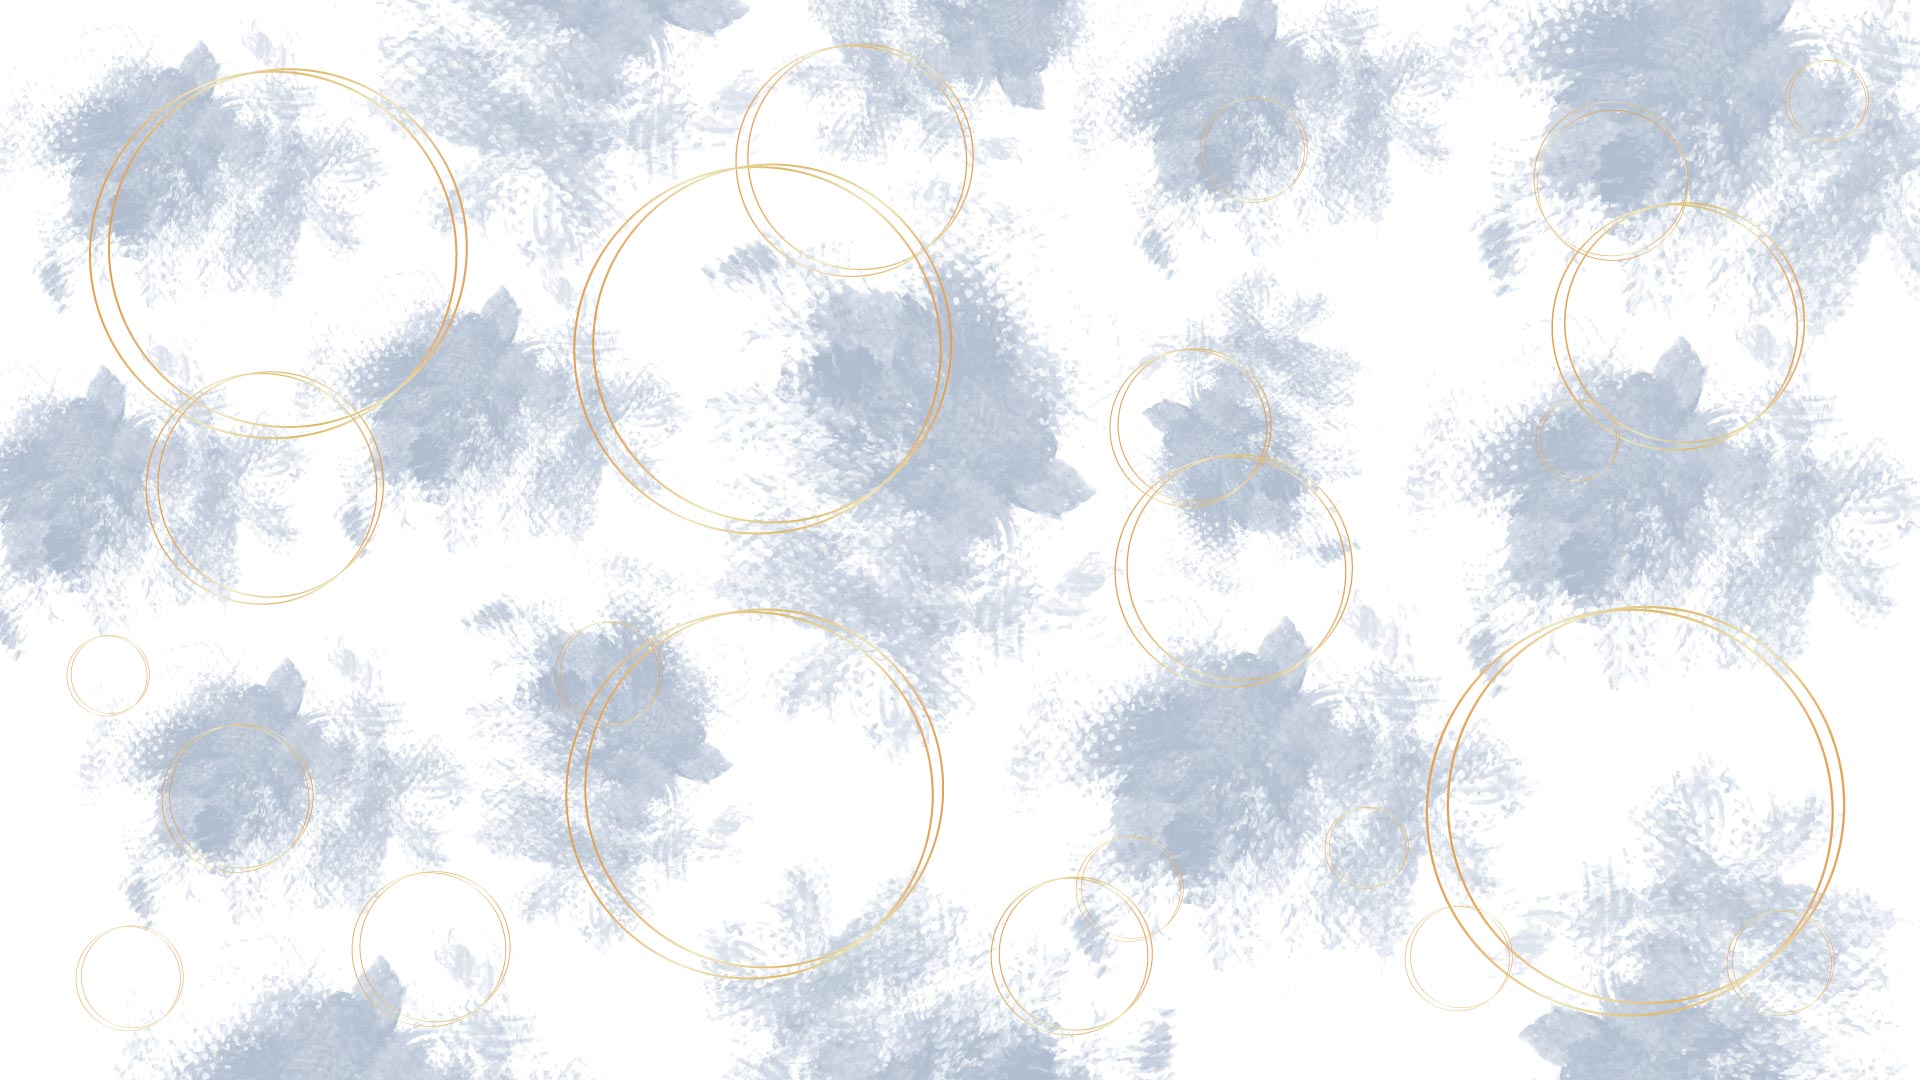
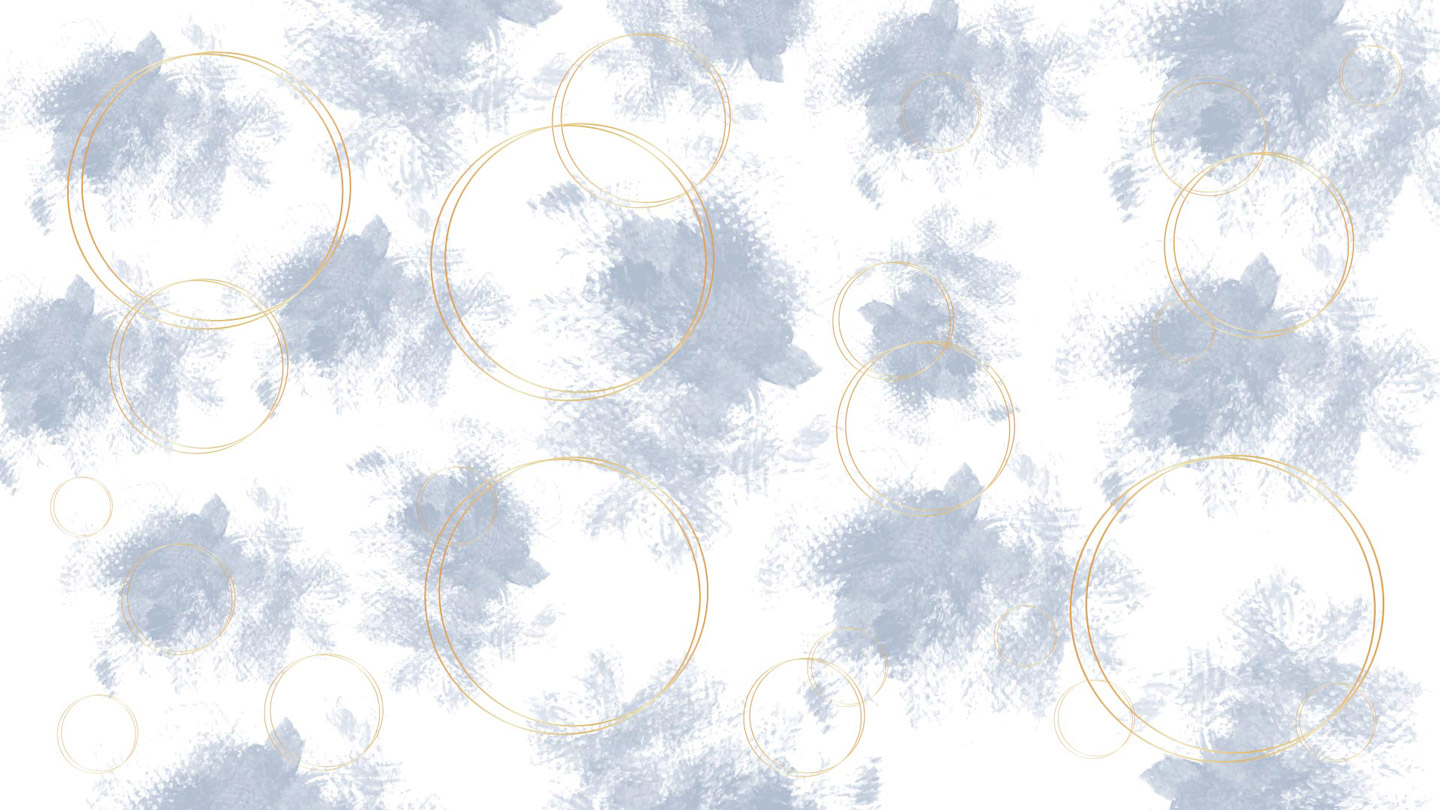
Final Project Website
Files associated with the final project website

diff --git a/design.html b/design.html
@@ -24,7 +24,7 @@
         <section>
           <h1>Design</h1>
         </section>
-        
+
         <section>
           <h2>Paper goes digital</h2>
           <p>When deciding to pursue design in college, I had already been exposed to design principles for more than seven years. However, the trick now was to use those skills and apply it to newly learned digital skills needed for graphic design. I am a fast learner, so it did not take long for me to pick up these new skills and use them to create pieces that are applicatble to communication and both print and online media.</p>
@@ -32,11 +32,26 @@
 
         <section>
           <h2>Graphics</h2>
-          <embed src="files/graphics/bright-places.pdf"/>
-          <embed src="files/graphics/mamma-mia.pdf"/>
-          <embed src="files/graphics/manual.pdf"/>
-          <embed src="files/graphics/self-portrait.pdf"/>
+
+          <h3>"All the Bright Places" Redesign</h3>
+          <img src="images/graphics/bright-places1.jpg" alt="All the Bright Places redesign cover"/>
+          <img src="images/graphics/bright-places2.jpg" alt="All the Bright Places redesign page"/>
+          <p> To view the full PDF (21.2MB), click <a href= "files/graphics/bright-places.pdf"> here</a>.</p>
+
+          <h3>Bodoni Type Specimen Book</h3>
+          <img src="images/graphics/mamma-mia1.jpg" alt="Bodoni Type Specimen Book cover"/>
+          <img src="images/graphics/mamma-mia2.jpg" alt="Bodoni Type Specimen Book page"/>
+          <p> To view the full PDF (1.7MB), click <a href= "files/graphics/mamma-mia.pdf"> here</a>.</p>
+
+          <h3>Rebrand Brand Identity Manual</h3>
+          <img src="images/graphics/manual1.jpg" alt="One Lucky Dog Rebrand Brand Identity Manual cover"/>
+          <img src="images/graphics/manual2.jpg" alt="One Lucky Dog Rebrand Brand Identity Manual page"/>
+          <p> To view the full PDF (8.4MB), click <a href= "files/graphics/manual.pdf"> here</a>.</p>
+
+          <h3>Self Portrait Graphic</h3>
+          <img src="images/graphics/self-portrait.jpg" alt="self portrait done on illustrator"/>
         </section>
+        <p> To view the full PDF (8.1MB), click <a href= "files/graphics/self-portrait.pdf"> here</a>.</p>
 
         <section>
           <h2>Photoshop</h2>
@@ -50,8 +65,16 @@
 
         <section>
           <h2>Layouts</h2>
-          <embed src="files/layouts/bella.pdf"/>
-          <embed src="files/layouts/glamour.pdf"/>
+
+          <h3>Mock BELLA Magazine</h3>
+          <img src="images/layout/bella1.jpg" alt="mock BELLA magazine cover"/>
+          <img src="images/layout/bella2.jpg" alt="mock BELLA magazine page"/>
+          <p> To view the full PDF (21.7MB), click <a href= "files/layouts/bella.pdf"> here</a>.</p>
+
+          <h3>Mock GLAMOUR Magazine</h3>
+          <img src="images/layout/glamour1.jpg" alt="mock GLAMOUR magazine cover"/>
+          <img src="images/layout/glamour2.jpg" alt="mock GLAMOUR magazine page"/>
+          <p> To view the full PDF (5.8MB), click <a href= "files/layouts/glamour.pdf"> here</a>.</p>
         </section>
       </main>
 

diff --git a/miscellaneous.html b/miscellaneous.html
@@ -31,14 +31,16 @@
         </section>
 
         <section>
-          <h2>Writing/Reporting</h2>
-          <embed src="files/writing/newspaper.pdf"/>
+          <h2>Published article in The Miami Hurricane</h2>
+          <img src="images/writing/newspaper.jpg" alt="Hijabi Monologues published article in The Miami Hurricane"/>
+          <p> To view the full PDF (104KB), click <a href= "files/writing/newspaper.pdf"> here</a>.</p>
         </section>
 
         <section>
           <h2>Social media/Aerie partnership</h2>
           <p>In the summer of 2019, I was chosen to be an Aerie Brand Ambassador. This experience has completely changed my perspective on social media and body image, as well as the strategies that companies use to reach their target audiences. Below are just a few of my posts along with a sample blog post that wrote for a scholarship thet are offering.</p>
-          <embed src="files/social-media/borderlander.pdf"/>
+          <img src="images/social-media/borderlander.jpg" alt="mock blog post for Aerie"/>
+          <p> To view the full PDF (1.1MB), click <a href= "files/social-media/borderlander.pdf"> here</a>.</p>
           <img src="images/social-media/aerie1.png" alt="aerie post 1"/>
           <img src="images/social-media/aerie2.png" alt="aerie post 2"/>
           <img src="images/social-media/aerie3.png" alt="aerie post 3"/>

diff --git a/style/style.css b/style/style.css
@@ -1,7 +1,7 @@
 @import url('https://fonts.googleapis.com/css2?family=Crimson+Text&family=Poiret+One&display=swap');
 
 html {
-  background-image: url(../images/background.svg);
+  background-image: url(../images/background.jpg);
   background-repeat: no-repeat;
   background-position: center;
   background-size: cover;
@@ -45,7 +45,7 @@ footer {
   margin: 0;
 }
 body {
-  background-color: rgb(255,255,255,0.8);
+  background-color: rgb(255,255,255,0.75);
   font-family: 'Crimson Text', "Georgia","Times New Roman", serif;
   color: #333;
 
@@ -61,7 +61,8 @@ h1 {
   text-transform: uppercase;
 }
 
-h2 {
+h2,
+h3 {
   font-family: 'Crimson Text', "Georgia","Times New Roman", serif;
   color: #666;
 }
